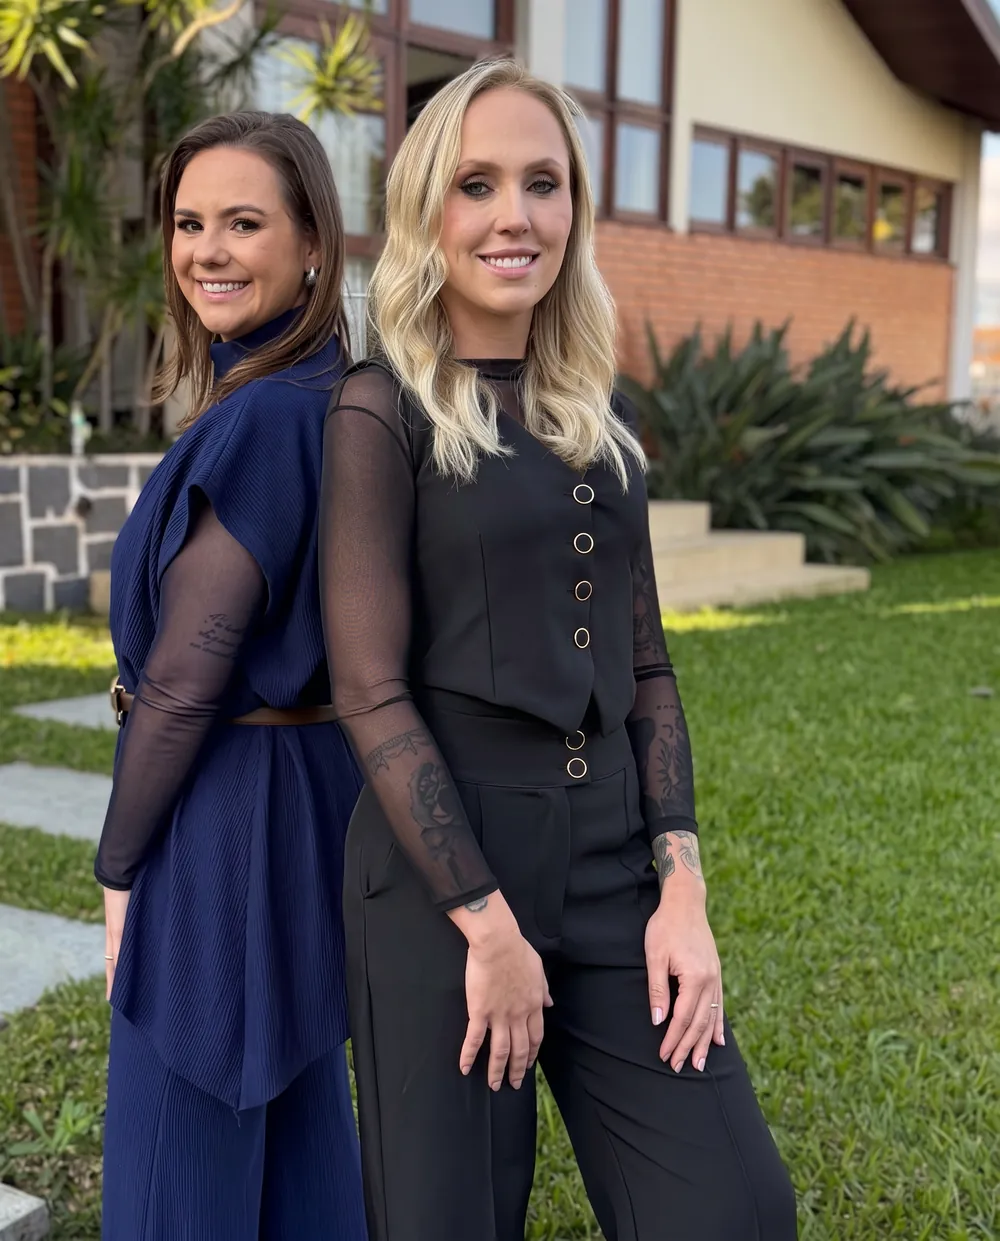
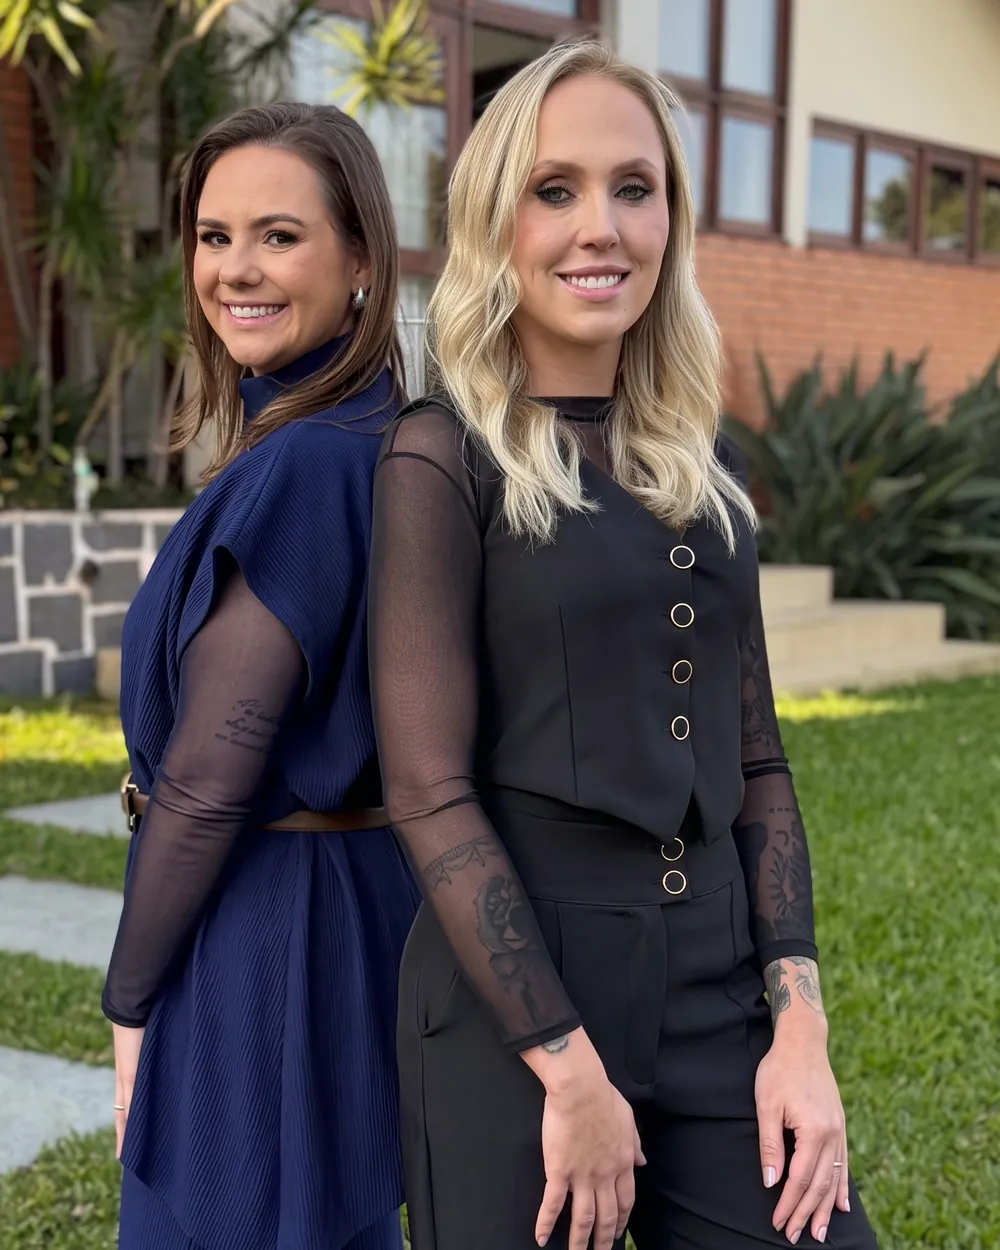
Hero com corte seco para o verde e responsáveis centralizadas

diff --git a/styles.css b/styles.css
@@ -291,11 +291,10 @@ svg { width: 1.5rem; height: 1.5rem; fill: currentColor; flex: none; }
   .header__cta { margin-left: 1.75rem; }
 }
 
-/* 1. Hero: foto real da entrada, que se dissolve no marfim (degradê, sem corte seco)
-   e termina em verde, emendando na seção do 9 */
+/* 1. Hero: foto real da entrada, que se dissolve no marfim onde está o texto */
 .hero {
-  padding-bottom: 5.5rem;
-  background: linear-gradient(to bottom, var(--ivory) 0, var(--ivory) calc(100% - 8rem), var(--forest) 100%);
+  padding-bottom: 3.5rem;
+  background: var(--ivory);
 }
 .hero__media img {
   width: 100%;
@@ -336,18 +335,15 @@ svg { width: 1.5rem; height: 1.5rem; fill: currentColor; flex: none; }
     min-height: min(100svh, 60rem);
     padding-bottom: 0;
     overflow: hidden;
-    background: linear-gradient(to bottom, var(--ivory) 0, var(--ivory) 72%, var(--forest) 100%);
   }
   .hero__media { position: absolute; inset: 0 0 0 auto; width: 60%; }
   .hero__media img {
     height: 100%;
     aspect-ratio: auto;
     object-position: 50% 40%;
-    /* Some para a esquerda (onde está o título) e para baixo (onde vira verde) */
-    -webkit-mask-image: linear-gradient(to right, transparent 0, #000 34%), linear-gradient(to bottom, #000 0, #000 62%, transparent 100%);
-    -webkit-mask-composite: source-in;
-    mask-image: linear-gradient(to right, transparent 0, #000 34%), linear-gradient(to bottom, #000 0, #000 62%, transparent 100%);
-    mask-composite: intersect;
+    /* Some para a esquerda, onde está o título */
+    -webkit-mask-image: linear-gradient(to right, transparent 0, #000 34%);
+    mask-image: linear-gradient(to right, transparent 0, #000 34%);
   }
   .hero__copy { margin-top: 0; padding: calc(var(--header-h) + 2rem) 0 7rem; }
   .hero__copy > * { max-width: min(36rem, 44vw); }

diff --git a/index.html b/index.html
@@ -21,10 +21,10 @@
   <link rel="icon" href="favicon.png" type="image/png">
   <link rel="apple-touch-icon" href="apple-touch-icon.png">
   <link rel="preload" href="assets/fonts/kurdis-variable.woff2" as="font" type="font/woff2" crossorigin>
-  <link rel="stylesheet" href="styles.css?v=21">
+  <link rel="stylesheet" href="styles.css?v=22">
   <script>document.documentElement.classList.add('js')</script>
   <script src="assets/js/lenis.min.js" defer></script>
-  <script src="main.js?v=21" defer></script>
+  <script src="main.js?v=22" defer></script>
   <script type="application/ld+json">
   {
     "@context": "https://schema.org",
@@ -175,7 +175,7 @@
           <p>As duas são enfermeiras especialistas em saúde do idoso pelo Hospital Universitário Regional dos Campos Gerais, formadas pela UEPG, e sócias há dez anos. A Villa Firenze nasceu do sonho das duas de abrir um lar para pessoas idosas. A equipe de cuidadoras passa por capacitações constantes.</p>
         </div>
         <div class="care__media">
-          <img src="images/care/responsaveis-1000.webp" srcset="images/care/responsaveis-640.webp 640w, images/care/responsaveis-1000.webp 1000w, images/care/responsaveis-1400.webp 1400w" sizes="(min-width: 64rem) 34vw, 100vw" width="1000" height="1241" loading="lazy" alt="Leticia Waselcoski e Paola Martins Schwab, responsáveis pela Villa Firenze, em frente à casa.">
+          <img src="images/care/responsaveis-1000.webp?v=2" srcset="images/care/responsaveis-640.webp?v=2 640w, images/care/responsaveis-1000.webp?v=2 1000w, images/care/responsaveis-1400.webp?v=2 1400w" sizes="(min-width: 64rem) 34vw, 100vw" width="1000" height="1250" loading="lazy" alt="Leticia Waselcoski e Paola Martins Schwab, responsáveis pela Villa Firenze, em frente à casa.">
         </div>
       </div>
 

diff --git a/privacidade.html b/privacidade.html
@@ -9,7 +9,7 @@
   <meta name="theme-color" content="#1c3b24">
   <link rel="icon" href="favicon.ico" sizes="any">
   <link rel="preload" href="assets/fonts/kurdis-variable.woff2" as="font" type="font/woff2" crossorigin>
-  <link rel="stylesheet" href="styles.css?v=21">
+  <link rel="stylesheet" href="styles.css?v=22">
 </head>
 <body class="page-plain">
   <a class="skip" href="#conteudo">Pular para o conteúdo</a>
